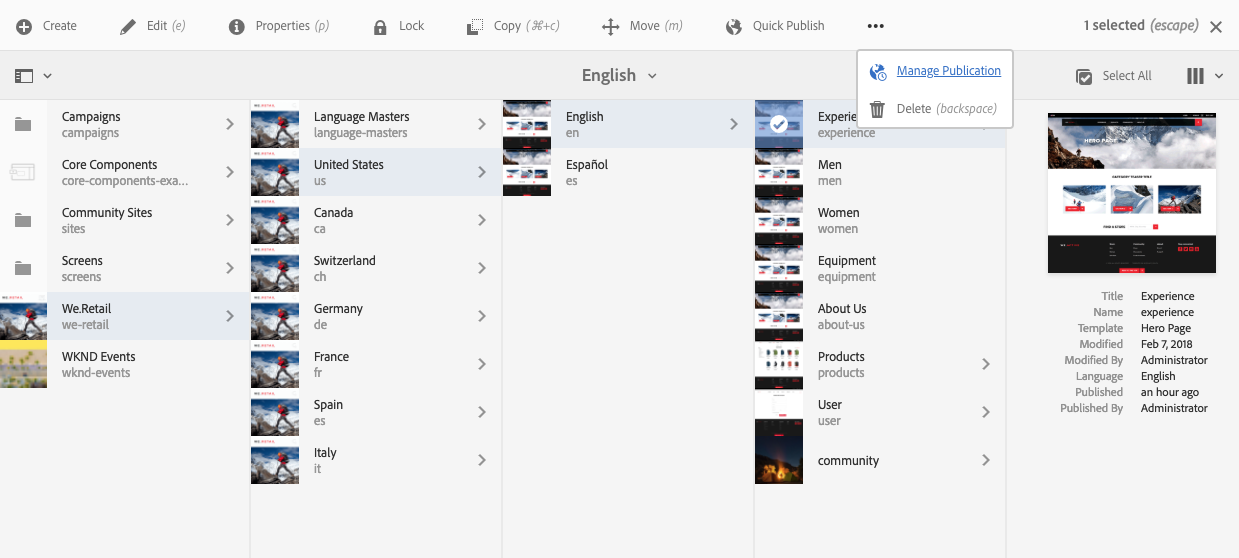
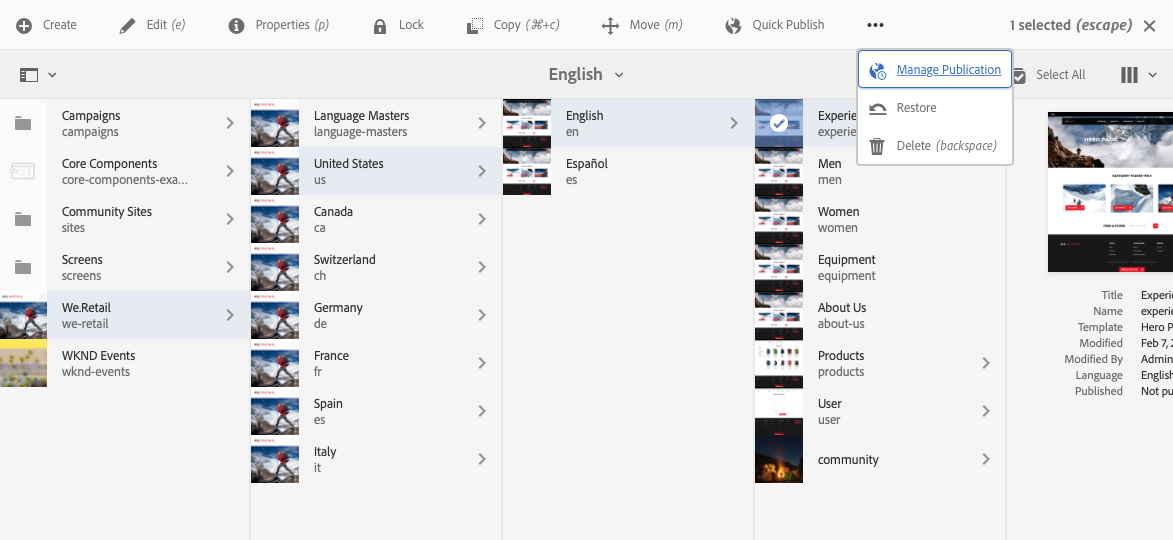
BackPortRestore-202105-01-01

diff --git a/help/sites-authoring/working-with-page-versions.md b/help/sites-authoring/working-with-page-versions.md
@@ -58,6 +58,8 @@ You can create a version of your resource from:
 
    The timeline will be opened with the information updated to indicate the new version.
 
+<!--
+
 ## Reverting to a Page Version {#reverting-to-a-page-version}
 
 Once a version has been created you can revert to that version if needed.
@@ -85,6 +87,106 @@ To revert to a previous version:
    ![screen-shot_2019-03-05at112505](assets/screen-shot_2019-03-05at112505.png)
 
 1. Select **Revert to this Version**. The selected version will be restored and the information in timeline will be updated.
+
+-->
+
+## Reinstating Versions {#reinstating-versions}
+
+Once you have created a version of your page, there are various methods of reinstating a prior version:
+
+* the **Revert to this Version** option from the [Timeline](/help/sites-authoring/basic-handling.md#timeline) rail
+
+  Reinstate a prior version of a selected page.
+
+* the **Restore** options from the top [actions toolbar](/help/sites-authoring/basic-handling.md#actions-toolbar)
+
+  * **Restore Version**
+
+    Reinstate versions of specified pages within the currently selected folder; this can also include restoring pages that have been previously deleted.
+
+  * **Restore Tree**
+
+    Reinstate a version of an entire tree as at a specified date and time; this can include pages that have been previously deleted.
+
+>[!NOTE]
+>
+>When reinstating a page, the version created will be part of a new branch.
+>
+>To illustrate:  
+>
+>1. Create versions of any page.
+>1. The initial labels and version node names will be 1.0, 1.1, 1.2 and so forth.  
+>1. Reinstate the first version; i.e. 1.0.
+>1. Create new versions again.
+>1. The generated labels and node names will now be 1.0.0, 1.0.1, 1.0.2, etc.
+
+### Revert to a Version {#revert-to-a-version}
+
+To **Revert** the selected page to a previous version:
+
+1. Navigate to show the page you want to revert to a previous version.
+1. Select the page in [selection mode](/help/sites-authoring/basic-handling.md#viewing-and-selecting-resources).
+1. Open the **Timeline** column and select either **Show All** or **Versions**. The page versions for the selected page will be listed.
+1. Select the version you want to revert to. The possible options will be shown:
+
+   ![Revert to this Version](assets/screen-shot_2019-03-05at112505.png)
+
+1. Select **Revert to this Version**. The selected version will be restored and the information in timeline will be updated.
+
+### Restore Version {#restore-version}
+
+This method can be used to restore versions of specified pages within the current folder; this can also include restoring pages that have been previously deleted:
+
+1. Navigate to, and [select](/help/sites-authoring/basic-handling.md#viewing-and-selecting-resources), the required folder.
+
+1. Select **Restore**, then **Restore Version** from the top [actions toolbar](/help/sites-authoring/basic-handling.md#actions-toolbar).
+
+   >[!NOTE]
+   >
+   >If, either:
+   >
+   >* you have selected a single page, that has never had any child pages,
+   >* or none of the pages in the folder have versions,
+   >
+   >Then the display will be empty as there are no versions applicable.
+
+1. The available versions will be listed:
+
+   ![Restore Version - List of all pages in folder](/help/sites-authoring/assets/versions-restore-version-01.png)
+
+1. For a specific page, use the drop down selector under **RESTORE TO VERSION** to select the required version for that page.
+
+   ![Restore Version - Select Version](/help/sites-authoring/assets/versions-restore-version-02.png)
+
+1. In the main display, select the required page to be restored:
+
+   ![Restore Version - Select Page](/help/sites-authoring/assets/versions-restore-version-03.png)
+
+1. Select **Restore** for the selected version, of the selected page, to be restored as the current version.
+
+>[!NOTE]
+>
+>The order in which you select a required page and the related version is interchangeable.
+
+### Restore Tree {#restore-tree}
+
+This method can be used to restore a version of a tree as at a specified date and time; this can include pages that have been previously deleted:
+
+1. Navigate to, and [select](/help/sites-authoring/basic-handling.md#viewing-and-selecting-resources), the required folder.
+
+1. Select **Restore**, then **Restore Tree** from the top [actions toolbar](/help/sites-authoring/basic-handling.md#actions-toolbar). The latest version of the tree will be shown:
+
+   ![Restore Tree](/help/sites-authoring/assets/versions-restore-tree-01.png)
+
+1. Use the date and time selector at **Latest Versions at Date** to select another version of the tree - the one to be restored.
+
+1. Set the flag **Preserved Non Versioned Pages** as required:
+
+   * If active (selected), then any non-versioned pages will be maintained and not impacted by the restore. 
+
+   * If inactive (unselected), then any non-versioned pages will be removed as they did not exist in the versioned tree.
+
+1. Select **Restore** for the selected version of the tree to be restored as the *current* version.
 
 ## Previewing a Version {#previewing-a-version}
 

diff --git a/help/sites-authoring/basic-handling.md b/help/sites-authoring/basic-handling.md
@@ -278,7 +278,7 @@ How you [select a resource](/help/sites-authoring/basic-handling.md#viewing-and-
 
 Due to the space restrictions in some windows, the toolbar can quickly become longer than the space available. When this happens additional options appears. Clicking or tapping on the ellipsis (the three dots or **...**) opens a drop down selector holding all remaining actions. For example, after selecting a page in the **Sites** console:
 
-![bh-12](assets/bh-12.png)
+![Actions Toolbar](assets/bh-12.png)
 
 >[!NOTE]
 >
